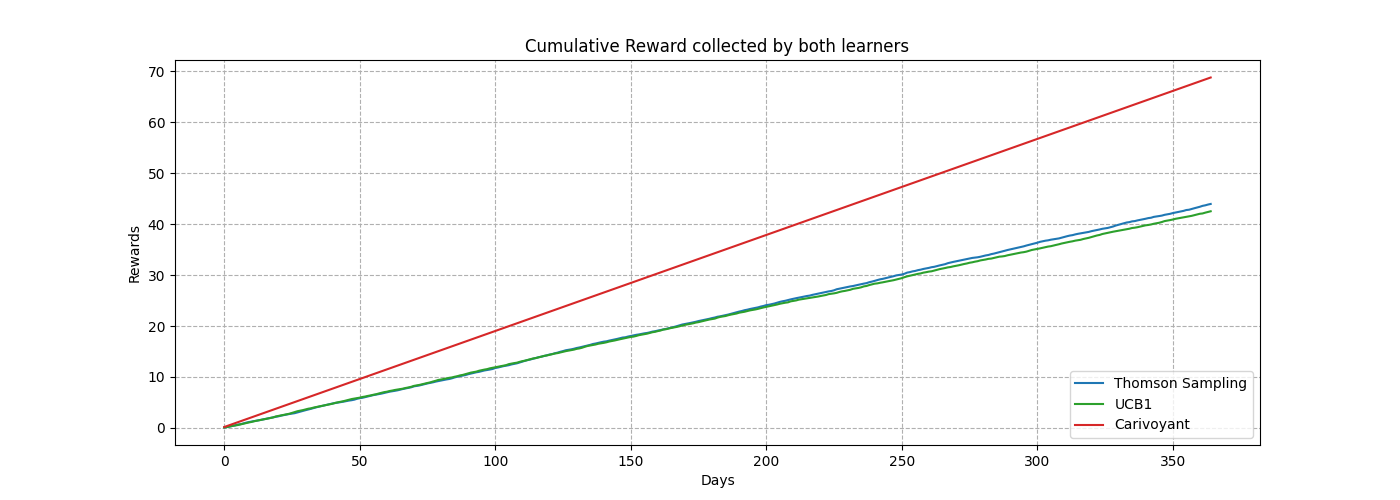
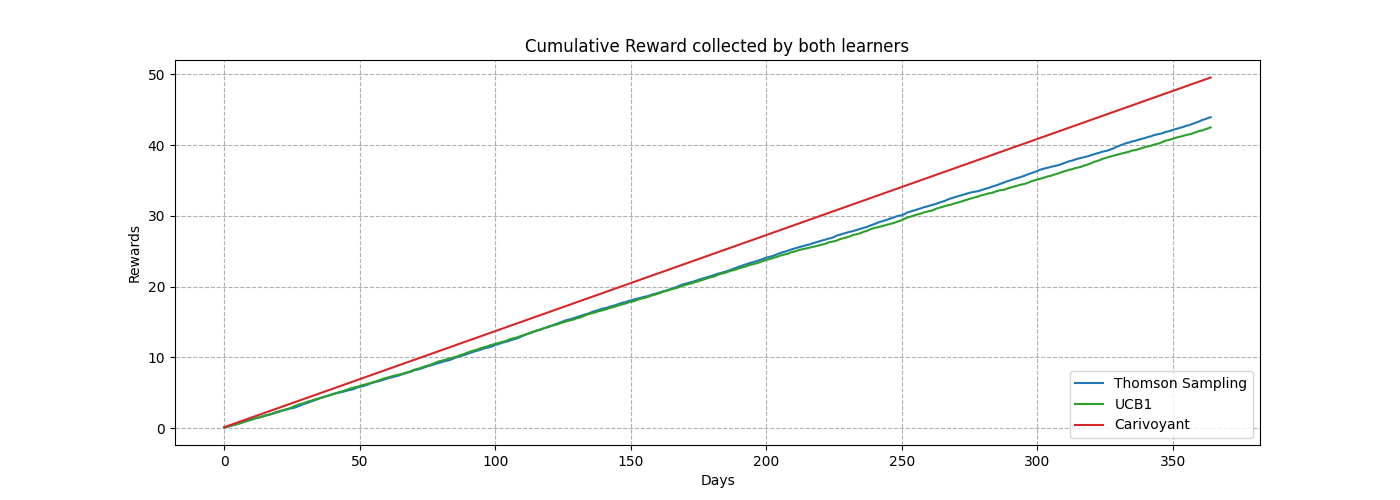
Final Commit

diff --git a/Code/step7.py b/Code/step7.py
@@ -62,12 +62,12 @@ for season in range(len(seasonsBreak)):
 		for j in range(len(customers)):
 			# Customer j with Price i for its conversion rate
 			dailyOptimalRewards[season][i] += ((item1Prices[i]-item1Cost)*customers[j]*convRates1[j][i])
-			prof2 = [item2Prices[0] * convRates2[j][0], item2Prices[1] * convRates2[j][1], item2Prices[2] * convRates2[j][2], item2Prices[3] * convRates2[j][3]]
+			prof2 = [item2Prices[0] *convRates1[j][i] * convRates2[j][0], item2Prices[1] *convRates1[j][i] * convRates2[j][1], item2Prices[2] *convRates1[j][i] * convRates2[j][2], item2Prices[3] *convRates1[j][i] * convRates2[j][3]]
 			bp2[season] = prof2.index(max(prof2))
 			for k in range(len(promoDistribution)):
 				# Discount asignation
 				if promoDistribution[k][0] == j:
-					dailyOptimalRewards[season][i] += ((item2Prices[bp2[season]]-item2Cost-discounts[ promoDistribution[k][1] ])*promoDistribution[k][2]*convRates2[j][bp2[season]])
+					dailyOptimalRewards[season][i] += ((item2Prices[bp2[season]]-item2Cost-discounts[ promoDistribution[k][1] ])*promoDistribution[k][2]*convRates1[j][i]*convRates2[j][bp2[season]])
 
 optimalRewards = []
 lastSeason = 0

diff --git a/Code/step8.py b/Code/step8.py
@@ -62,12 +62,12 @@ for season in range(len(seasonsBreak)):
 		for j in range(len(customers)):
 			# Customer j with Price i for its conversion rate
 			dailyOptimalRewards[season][i] += ((item1Prices[i]-item1Cost)*customers[j]*convRates1[j][i])
-			prof2 = [item2Prices[0] * convRates2[j][0], item2Prices[1] * convRates2[j][1], item2Prices[2] * convRates2[j][2], item2Prices[3] * convRates2[j][3]]
+			prof2 = [item2Prices[0]*convRates1[j][i] * convRates2[j][0], item2Prices[1]*convRates1[j][i] * convRates2[j][1], item2Prices[2]*convRates1[j][i] * convRates2[j][2], item2Prices[3]*convRates1[j][i] * convRates2[j][3]]
 			bp2[season] = prof2.index(max(prof2))
 			for k in range(len(promoDistribution)):
 				# Discount asignation
 				if promoDistribution[k][0] == j:
-					dailyOptimalRewards[season][i] += ((item2Prices[bp2[season]]-item2Cost-discounts[ promoDistribution[k][1] ])*promoDistribution[k][2]*convRates2[j][bp2[season]])
+					dailyOptimalRewards[season][i] += ((item2Prices[bp2[season]]-item2Cost-discounts[ promoDistribution[k][1] ])*promoDistribution[k][2]*convRates1[j][i]*convRates2[j][bp2[season]])
 
 optimalRewards = []
 lastSeason = 0

diff --git a/Code/step3.py b/Code/step3.py
@@ -43,7 +43,7 @@ dailyOptimalRewards = [0,0,0,0]
 for i in range(len(item1Prices)):
 	for j in range(len(customers)):
 		# Customer j with Price i for its conversion rate
-		dailyOptimalRewards[i] += ((item1Prices[i]-item1Cost)*customers[j]*convRates1[j][i] + (item2Prices[0]-item2Cost)*customers[j]*convRates2[j][0])
+		dailyOptimalRewards[i] += ((item1Prices[i]-item1Cost)*customers[j]*convRates1[j][i] + (item2Prices[0]-item2Cost)*customers[j]*convRates1[j][i]*convRates2[j][0])
 
 optimalPrice = dailyOptimalRewards.index(max(dailyOptimalRewards))
 optimalRewards = [(dailyOptimalRewards[optimalPrice]/(maxRevenue * totalCustomers)) for x in range(365)]

diff --git a/Code/step4.py b/Code/step4.py
@@ -44,7 +44,7 @@ dailyOptimalRewards = [0,0,0,0]
 for i in range(len(item1Prices)):
 	for j in range(len(customers)):
 		# Customer j with Price i for its conversion rate
-		dailyOptimalRewards[i] += ((item1Prices[i]-item1Cost)*customers[j]*convRates1[j][i] + (item2Prices[0]-item2Cost)*customers[j]*convRates2[j][0])
+		dailyOptimalRewards[i] += ((item1Prices[i]-item1Cost)*customers[j]*convRates1[j][i] + (item2Prices[0]-item2Cost)*customers[j]*convRates1[j][i]*convRates2[j][0])
 
 optimalPrice = dailyOptimalRewards.index(max(dailyOptimalRewards))
 optimalRewards = [(dailyOptimalRewards[optimalPrice]/(maxRevenue * totalCustomers)) for x in range(365)]

diff --git a/Code/step5.py b/Code/step5.py
@@ -48,7 +48,7 @@ for i in range(len(item1Prices)):
 		for k in range(len(promoDistribution)):
 			# Discount asignation
 			if promoDistribution[k][0] == j:
-				dailyOptimalRewards[i] += ((item2Prices[0]-item2Cost-discounts[ promoDistribution[k][1] ])*promoDistribution[k][2]*convRates2[j][0])
+				dailyOptimalRewards[i] += ((item2Prices[0]-item2Cost-discounts[ promoDistribution[k][1] ])*promoDistribution[k][2]*convRates1[j][i]*convRates2[j][0])
 
 optimalPrice = dailyOptimalRewards.index(max(dailyOptimalRewards))
 optimalRewards = [(dailyOptimalRewards[optimalPrice]/(maxRevenue * totalCustomers)) for x in range(T)]

diff --git a/Code/step6.py b/Code/step6.py
@@ -54,7 +54,7 @@ for i in range(len(item1Prices)):
 		for k in range(len(promoDistribution)):
 			# Discount asignation
 			if promoDistribution[k][0] == j:
-				dailyOptimalRewards[i] += ((item2Prices[0]-item2Cost-discounts[ promoDistribution[k][1] ])*promoDistribution[k][2]*convRates2[j][0])
+				dailyOptimalRewards[i] += ((item2Prices[0]-item2Cost-discounts[ promoDistribution[k][1] ])*promoDistribution[k][2]*convRates1[j][i]*convRates2[j][0])
 
 optimalPrice = dailyOptimalRewards.index(max(dailyOptimalRewards))
 optimalRewards = [(dailyOptimalRewards[optimalPrice]/(maxRevenue * totalCustomers)) for x in range(T)]
